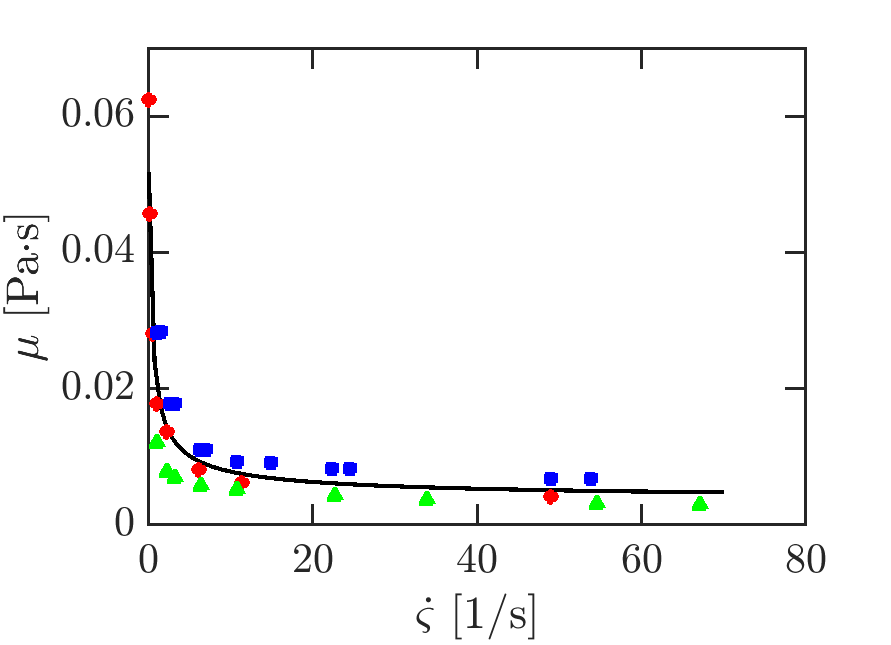
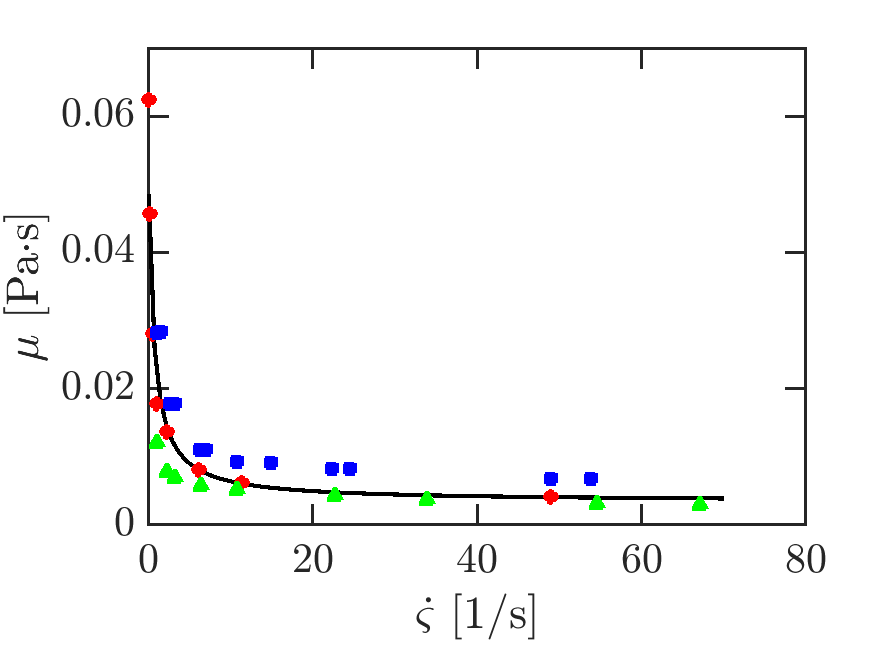
added 2D contours, still need to improve a few repeated code

diff --git a/m_ffield.m b/m_ffield.m
@@ -1,24 +1,30 @@
 lR = length(Rout(:,1));
-lr = 500;
+lr = rstarres*rstarlim;
 R = Rout(:,1);
 Rdot = Rout(:,2);
 Rdist = Ro_w*ones(lR,lr).*linspace(0,rstarlim,lr);
-sr = sfunc(Rdist,R,Rdot,lR,lr);
-mugrid = carreau(vmaterial,sr);
+% calculating the shear
+sr = f_sfunc(Rdist,R,Rdot,lR,lr);
+mugrid = f_carreau(vmaterial,sr);
+munon = (mugrid-mu_inf)/(mu_o-mu_inf);
+if mufilter == 1
+    [munon,mugrid,sr] = f_mufilter(munon,mugrid,sr,lR,lr);
+end
 taugrid = -2*mugrid.*sr;
 tcon = Tout(1:lR)/tRC;
 rcon = Rdist(1,1:lr)'/Ro_w;
 [xcon,ycon] = meshgrid(tcon,rcon);
 clevels = 50;
 
-figure(6)
-contourf(xcon',ycon',mugrid/mu_o,clevels,'edgecolor','none')
+% viscosity as a function of r (radial coordinate) plot
+figure(6+contourshift)
+contourf(xcon',ycon',munon,clevels,'edgecolor','none')
 colormap jet;
 cbar = colorbar;
 cbar.Label.String = '$\mu$*';
 set(cbar,'TickLabelInterpreter','latex');
 pos = get(cbar,'Position');
-cbar.Label.Position = [pos(1)*2 -0.066045549576697]; 
+% cbar.Label.Position = [pos(1)*2 pos(2)]; 
 cbar.Label.Rotation = 0;
 cbar.Label.Interpreter = 'latex';
 caxis([0 1]);
@@ -31,20 +37,26 @@ xa = gca;
 xa.TickLength = [.03 .03];
 xa.LineWidth = 1.5;
 xticks([1:1:tmag])
+yticks([0:rstarlimtick:rstarlim])
 box on;
 
-figure(7)
+% shear rate as a function of r (radial coordinate) plot
+figure(7+contourshift)
 % plot(tspan,Roft, lm,'LineWidth',2); 
-contourf(xcon',ycon',sr,clevels,'edgecolor','none')
+srplot = sr/fnatural;
+contourf(xcon',ycon',srplot,clevels,'edgecolor','none')
+srmax = max(max(srplot));
+srmin = min(min(srplot));
 colormap jet;
 cbar = colorbar;
 set(cbar,'TickLabelInterpreter','latex');
-cbar.Label.String = '$\dot{\varsigma}~[1/s]$';
+cbar.Label.String = '$\dot\varsigma^*$';
+set(cbar,'TickLabelInterpreter','latex');
 pos = get(cbar,'Position');
-cbar.Label.Position = [1.661309480667114 -10.730386636465376]; 
+% cbar.Label.Position = [pos(1)*2 pos(2)]; 
 cbar.Label.Rotation = 0;
 cbar.Label.Interpreter = 'latex';
-caxis([-10 10]);
+caxis([srmin srmax]);
 xlabel('\it{t}$^*$', 'Interpreter', 'Latex', 'FontSize', 20); 
 ylabel('\it{r}$^*$','Interpreter','Latex','FontSize',24);
 set(gcf,'color','w');
@@ -54,20 +66,25 @@ xa = gca;
 xa.TickLength = [.03 .03];
 xa.LineWidth = 1.5;
 xticks([1:1:tmag])
+yticks([0:rstarlimtick:rstarlim])
 box on;
 
-figure(8)
+% viscous shear stress as a function of r (radial coordinate) plot
+figure(8+contourshift)
 % plot(tspan,Roft, lm,'LineWidth',2); 
-contourf(xcon',ycon',taugrid,clevels,'edgecolor','none')
+tauplot = taugrid/stress;
+contourf(xcon',ycon',tauplot,clevels,'edgecolor','none')
+taumax = max(max(tauplot));
+taumin = min(min(tauplot));
 colormap jet;
 cbar = colorbar;
-cbar.Label.String = '$\tau_{rr}$ [Pa]';
+cbar.Label.String = '$\tau_{rr}^*$';
 set(cbar,'TickLabelInterpreter','latex');
 pos = get(cbar,'Position');
-cbar.Label.Position = [1.9735118831907 -0.22]; 
+% cbar.Label.Position = [pos(1)*2 pos(2)]; 
 cbar.Label.Rotation = 0;
 cbar.Label.Interpreter = 'latex';
-caxis([-0.2 0.2]);
+caxis([taumin taumax]);
 xlabel('\it{t}$^*$', 'Interpreter', 'Latex', 'FontSize', 20); 
 ylabel('\it{r}$^*$','Interpreter','Latex','FontSize',24);
 set(gcf,'color','w');
@@ -77,4 +94,5 @@ xa = gca;
 xa.TickLength = [.03 .03];
 xa.LineWidth = 1.5;
 xticks([1:1:tmag])
+yticks([0:rstarlimtick:rstarlim])
 box on;

diff --git a/m_bubblewall_main.m b/m_bubblewall_main.m
@@ -19,10 +19,11 @@ mu_water = 8.9*10E-4;           % viscosity of water
 Ca = (rho*c*c)/shearmodulus;    % shear modulus of soft material 
 We_w = (rho*c*c*Ro_w)/Sd;       % Weber number, surface tension
 mu_o = 0.056;                   % blood no shear viscosity
+mu_inf = 0.00345;
 stress = po;
 
 %SETTING UP FIGURES
-figsetup;
+m_figsetup;
 
 % SIMULATION SETTINGS
 rmodel = 'RP';
@@ -31,42 +32,69 @@ vmodel = 'Carreau';
 force = 'sine';
 
 %RUNNING AND PLOTTING
+
+%blood inf
+rstarlim = 5;
+rstarres = 80;
+rstarlimtick = rstarlim/5;
 vmaterial = 'mu_inf';
-[Tout,Rout,Rddot]=bubblewall_solver(Ro_w,deltap,kappa,f,We_w,Ca,rho,po,pv,...
+mufilter = 0;
+contourshift = 0;
+[Tout,Rout,Rddot]=f_bubblewall_solver(Ro_w,deltap,kappa,f,We_w,Ca,rho,po,pv,...
     c,tfinal,force,rmodel,emodel,vmodel,vmaterial);
 lm = 'g-';
-figplot;
+m_figplot;
+m_ffield;
 
-%Blood
+% blood carreau
+rstarlim = 700;
+rstarres = 5;
+rstarlimtick = 100;
+mufilter = 1;
 vmaterial = 'lsq_blood';
-[Tout,Rout,Rddot]=bubblewall_solver(Ro_w,deltap,kappa,f,We_w,Ca,rho,po,pv,...
+contourshift = 3;
+[Tout,Rout,Rddot]=f_bubblewall_solver(Ro_w,deltap,kappa,f,We_w,Ca,rho,po,pv,...
     c,tfinal,force,rmodel,emodel,vmodel,vmaterial);
 lm = 'r--';
-figplot;
-rstarlim = 500;
-ffield;
+m_figplot;
+m_ffield;
 
-%blood 0
+% blood o
+rstarlim = 5;
+rstarres = 80;
+rstarlimtick = rstarlim/5;
 vmaterial = 'mu_0';
-[Tout,Rout,Rddot]=bubblewall_solver(Ro_w,deltap,kappa,f,We_w,Ca,rho,po,pv,...
+mufilter = 0;
+contourshift = 6;
+[Tout,Rout,Rddot]=f_bubblewall_solver(Ro_w,deltap,kappa,f,We_w,Ca,rho,po,pv,...
     c,tfinal,force,rmodel,emodel,vmodel,vmaterial);
 lm = 'k-.';
-figplot;
+m_figplot;
+m_ffield;
 
 %Save figures
 figure(1)
-saveas(gcf,'fRofT','png')
+saveas(gcf,'./bubblewallfigs/fRofT','png')
 figure(2)
-saveas(gcf,'fgammaofT','png')
+saveas(gcf,'./bubblewallfigs/fgammaofT','png')
 figure(3)
-saveas(gcf,'fmuofT','png') 
+saveas(gcf,'./bubblewallfigs/fmuofT','png') 
 figure(4)
-saveas(gcf,'ftauofT','png')
+saveas(gcf,'./bubblewallfigs/ftauofT','png')
 figure(5)
-saveas(gcf,'ftauofgamma','png')
-figure(6)
-saveas(gcf,'fmuofr','png')
+saveas(gcf,'./bubblewallfigs/ftauofgamma','png')
+
 figure(7)
-saveas(gcf,'fshearofr','png')
+saveas(gcf,'./contourfigs/fcshearofr_mui','png')
 figure(8)
-saveas(gcf,'ftauofr','png')
+saveas(gcf,'./contourfigs/fctauofr_mui','png')
+figure(9)
+saveas(gcf,'./contourfigs/fcmuofr_muc','png')
+figure(10)
+saveas(gcf,'./contourfigs/fcshearofr_muc','png')
+figure(11)
+saveas(gcf,'./contourfigs/fctauofr_muc','png')
+figure(13)
+saveas(gcf,'./contourfigs/fcshearofr_muo','png')
+figure(14)
+saveas(gcf,'./contourfigs/fctauofr_muo','png')

diff --git a/f_bubblewall_solver.m b/f_bubblewall_solver.m
@@ -1,4 +1,4 @@
-function [Tout,Rout,Rddot] = bubblewall_solver(R_eqd,deltap,kappa,f,...
+function [Tout,Rout,Rddot] = f_bubblewall_solver(R_eqd,deltap,kappa,f,...
     We,Ca,rho,po,pv,c,tfinal,force,rmodel,emodel,vmodel,vmaterial)
 % FUNCTION THAT SOLVED KELLER MIKSIS FOR MULTIPLE CASES
 % LETTY: YOUR CODE IS A BIT BETTER AT MANAGING VARIABLES, USE YOUR CODE AND
@@ -50,7 +50,7 @@ function [ dRdT2 ] = bubblewall_Rddot(t,r,eta,k,xi,rho,Ro,S,deltap,f,...
     r2s=r2.^2;
     pinfy=pinf(t,f,deltap,force)+po;
     if strcmp('Carreau',vmodel) == 1
-         nu = carreau(vmaterial,-2*r2./r1)/rho;
+         nu = f_carreau(vmaterial,-2*r2./r1)/rho;
     elseif strcmp('powerlaw',vmodel) == 1
          nu = powerlaw(vmaterial,-2*r2./r1)/rho;
     end
@@ -116,5 +116,5 @@ function tau = carreautau(r,Rdot,R,mu_inf)
     lambda = 5.607570991983291;
     nc = 0.383559338674208;
     tau = (12*(Rdot.*R.^2)./r.^4).*(mu_o-mu_inf).*(1+...
-        lambda.^2.*(4.*Rdot.^2.*R.^4./r.^6)).^((nc-1)/2);
+        lambda.^2.*(4.*Rdot.^2.*R.^4./r.^6)).^((nc-1)/2);    
 end

diff --git a/m_carreaufit.m b/m_carreaufit.m
@@ -16,15 +16,16 @@ mu8 = 0.00345;
 gamma = [skax;birox;merix];
 mu = [skay;biroy;meriy];
 mu = mu(1:end);
-gamma = gamma(1:end);
+% gamma = gamma(1:end);
 
 % defining the carreau equation, x(4) is mu_infinity, x(3) is mu_0, x(2) 
 % is n_c, x(1) is \lambda
-car = @(x,gamma) x(4) + (x(3)-x(4)).*(1+x(1)^2.*gamma.^2).^((x(2)-1)/2);
+% car = @(x,gamma) x(4) + (x(3)-x(4)).*(1+x(1)^2.*gamma.^2).^((x(2)-1)/2);
+car = @(x,gamma) x(4) + (x(3)-x(4)).*(1./(1+(x(1).*gamma).^x(2)));
 % setting initial condition in the guess
 % setting lower and upper bounds for the fitting
 lb = [0.2    ,  0.1, mu0 , mu8 ];
-ub = [500   ,   0.6, mu0 , mu8 ];
+ub = [10     ,  2, mu0 , mu8 ];
 x0 = (lb+ub)*0.5;
 options = optimoptions('lsqcurvefit','Algorithm','trust-region-reflective',...
     'OptimalityTolerance',1e-8,'FunctionTolerance',1E-8);

diff --git a/f_carreau.m b/f_carreau.m
@@ -1,14 +1,13 @@
-function [mu] = carreau(vmaterial,gammadot)
+function [mu] = f_carreau(vmaterial,gammadot)
 	mu_inf = 0.00345; 
 	mu_o = 0.056; 
     if strcmp('water',vmaterial)==1
-        mu = 8.9*10E-4;
+        mu = 8.9*10E-4*ones(size(gammadot));
         
     elseif strcmp('mu_0', vmaterial) == 1
-        mu = mu_o; 
-        
+        mu = mu_o*isfinite(gammadot);
     elseif strcmp('mu_inf', vmaterial) == 1
-        mu = mu_inf;
+        mu = mu_inf*isfinite(gammadot);
         
     elseif strcmp('blood',vmaterial)==1
         lambda = 3.313; 

diff --git a/f_sfunc.m b/f_sfunc.m
@@ -1,13 +1,11 @@
-function sofr = sfunc(r,R,Rdot,N,M)
+function sofr = f_sfunc(r,R,Rdot,N,M)
+% shear as a function of r (radial coordinate) calculation
 sofr = zeros(N,M);
     for i = 1:N
         for j = 1:M
             if r(i,j) >=  R(i,1)
                 sofr(i,j) = -2*Rdot(i,1)*(R(i,1)^2)/((r(i,j))^3);
             else
-                sofr(i,j) = NaN;
-            end
-            if abs(sofr(i,j)) > 10
                 sofr(i,j) = NaN;
             end
         end

diff --git a/f_mufilter.m b/f_mufilter.m
@@ -1,0 +1,19 @@
+function [munon,mugrid,sr] = f_mufilter(munon,mugrid,sr,N,M)
+%F_MUFILTER Summary of this function goes here
+%   Detailed explanation goes here
+
+for i = 1:N
+    for j = 1:M
+        if munon(i,j) > 0.9
+            munon(i,j) = NaN;
+            mugrid(i,j) = NaN;
+            sr(i,j) = NaN;
+        elseif munon(i,j) < 0.1
+            munon(i,j) = NaN;
+            mugrid(i,j) = NaN;
+            sr(i,j) = NaN;
+        end
+    end
+end
+
+end

diff --git a/m_figplot.m b/m_figplot.m
@@ -9,7 +9,7 @@ gamman = gamma/fnatural;
 plot(tspan,gamman,lm,'LineWidth',2); 
 
 figure(3)
-mutrace = carreau(vmaterial,gamma).*ones(size(gamma));
+mutrace = f_carreau(vmaterial,gamma).*ones(size(gamma));
 plot(tspan,mutrace/mu_o,lm,'LineWidth',2); 
 
 figure(4)

diff --git a/f_pfunc.m b/f_pfunc.m
@@ -1,4 +1,4 @@
-function pofr = pfunc(r,R,U,Udot,pA,rho8,N,M)
+function pofr = f_pfunc(r,R,U,Udot,pA,rho8,N,M)
 pofr = zeros(N,M);
 % equation 4.11 in Eric Johnsen thesis
     for i = 1:N

diff --git a/f_ufunc.m b/f_ufunc.m
@@ -1,4 +1,4 @@
-function uofr = ufunc(r,R,U,N,M)
+function uofr = f_ufunc(r,R,U,N,M)
 uofr = zeros(N,M);
     for i = 1:N
         for j = 1:M
